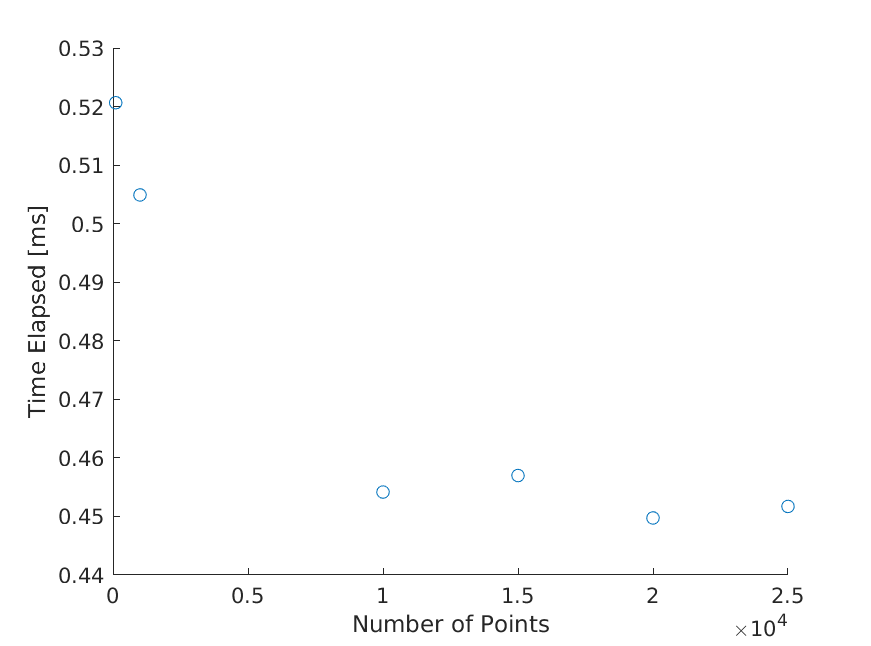
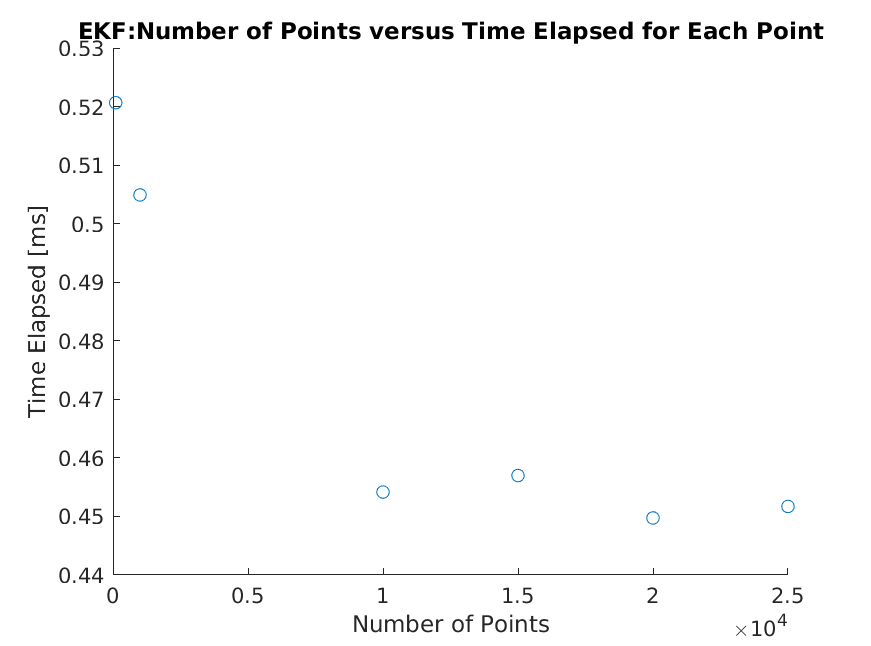
added another

Changed region(s): [[0.093, 0.031, 0.961, 0.0619]]

diff --git a/data_analysis.m b/data_analysis.m
@@ -39,9 +39,51 @@ ukf_check_y = (x_ukf(2,1:27000)' - (y_input(1:27000,1)-y_input(1,1)));
 ukf_RMS_pos_y =(norm(ukf_check_y,'fro')/sqrt(27000));
 ekf_check_y = (x(2,1:27000)' - (y_input(1:27000,1)-y_input(1,1)));
 ekf_RMS_pos_y =(norm(ekf_check_y,'fro')/sqrt(27000));
+ekf_RMS_pos_y_vec = ekf_check_y.^(0.5)
+ukf_RMS_pos_y_vec = ukf_check_y.^0.5
 saveas(gcf,'velocity_tracking_with_time.png')
 disp(ukf_RMS_pos_y)
 disp(ekf_RMS_pos_y)
+%%
+close all;
+figure()
+XMIN = 7E+6
+XMAX = 1E+7
+YMIN = -1
+YMAX = 550
+hold on
+scatter(RawAccel(1:27000,1),ekf_RMS_pos_y_vec)
+scatter(RawAccel(1:27000,1),ukf_RMS_pos_y_vec)
+legend('EKF','UKF');
+axis([XMIN XMAX YMIN YMAX])
+title('MMSE for EKF and UKF as Compared with the Input');
+xlabel('Time [s]')
+ylabel('X Position [m]');
+hold off
+saveas(gcf,'convergence_error_nstuff.png')
+
+%%
+ukf_check_ygt = (x_ukf(2,1:27000)' - (y_gt(1:27000,1)-y_gt(1,1)));
+ukf_RMS_pos_ygt =(norm(ukf_check_ygt,'fro')/sqrt(27000));
+ekf_check_ygt = (x(2,1:27000)' - (y_gt(1:27000,1)-y_gt(1,1)));
+ekf_RMS_pos_ygt =(norm(ekf_check_ygt,'fro')/sqrt(27000));
+ekf_RMS_pos_y_vecgt = ekf_check_ygt.^(0.5)
+ukf_RMS_pos_y_vecgt = ukf_check_ygt.^0.5
+figure()
+% XMIN = 7E+6
+% XMAX = 1E+7
+% YMIN = -1
+% YMAX = 550
+hold on
+scatter(RawAccel(1:27000,1),ekf_RMS_pos_y_vec)
+scatter(RawAccel(1:27000,1),ukf_RMS_pos_y_vec)
+legend('EKF','UKF');
+% axis([XMIN XMAX YMIN YMAX])
+title('MMSE for EKF and UKF as Compared with the Input');
+xlabel('Time [s]')
+ylabel('X Position [m]');
+hold off
+saveas(gcf,'convergence_error_nstuff.png')
 %% GPS
 
 close all;

diff --git a/timing.m b/timing.m
@@ -13,10 +13,11 @@ ylabel('Time Elapsed (s)');
 saveas(gcf,'ekf_num_points_mean_time.png');
 % Time for one point
 figure();
-title('EKF:Number of Points versus Time Elapsed for Each Point');
 scatter(num_points_vec, ekf_mean_time_vec./num_points_vec/(10^(-3)))
 xlabel('Number of Points');
 ylabel('Time Elapsed [ms]');
+title('EKF:Number of Points versus Time Elapsed for Each Point');
+
 saveas(gcf,'ekf_num_points_single_op_time.png');
 average_time_per_point = mean(ekf_mean_time_vec./num_points_vec/(10^(-3)));
 %% UKF
